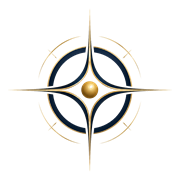
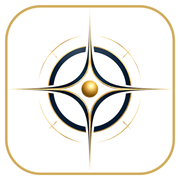
mô tả thay đổi

diff --git a/index.html b/index.html
@@ -8,10 +8,11 @@
       content="Quanta Aptus là phương pháp chỉnh sửa tư duy học tập, áp dụng cho IB, IGCSE, A-Level, AP và các chương trình học thuật khác."
     />
     <title>Quanta Aptus | Cognitive Correction Method</title>
-    <link rel="icon" href="favicon.ico" sizes="32x32" />
-    <link rel="icon" type="image/png" href="assets/favicon-32x32.png" sizes="32x32" />
-    <link rel="icon" type="image/png" href="assets/favicon-192x192.png" sizes="192x192" />
-    <link rel="icon" type="image/png" href="assets/favicon-transparent-512.png" sizes="512x512" />
+    <link rel="shortcut icon" href="favicon.ico?v=3" />
+    <link rel="icon" type="image/png" href="assets/favicon-app-32x32.png?v=3" sizes="32x32" />
+    <link rel="icon" type="image/png" href="assets/favicon-app-64x64.png?v=3" sizes="64x64" />
+    <link rel="icon" type="image/png" href="assets/favicon-app-192x192.png?v=3" sizes="192x192" />
+    <link rel="icon" type="image/png" href="assets/favicon-app-512.png?v=3" sizes="512x512" />
     <link rel="apple-touch-icon" href="assets/apple-touch-icon.png" />
     <link rel="stylesheet" href="styles.css" />
   </head>